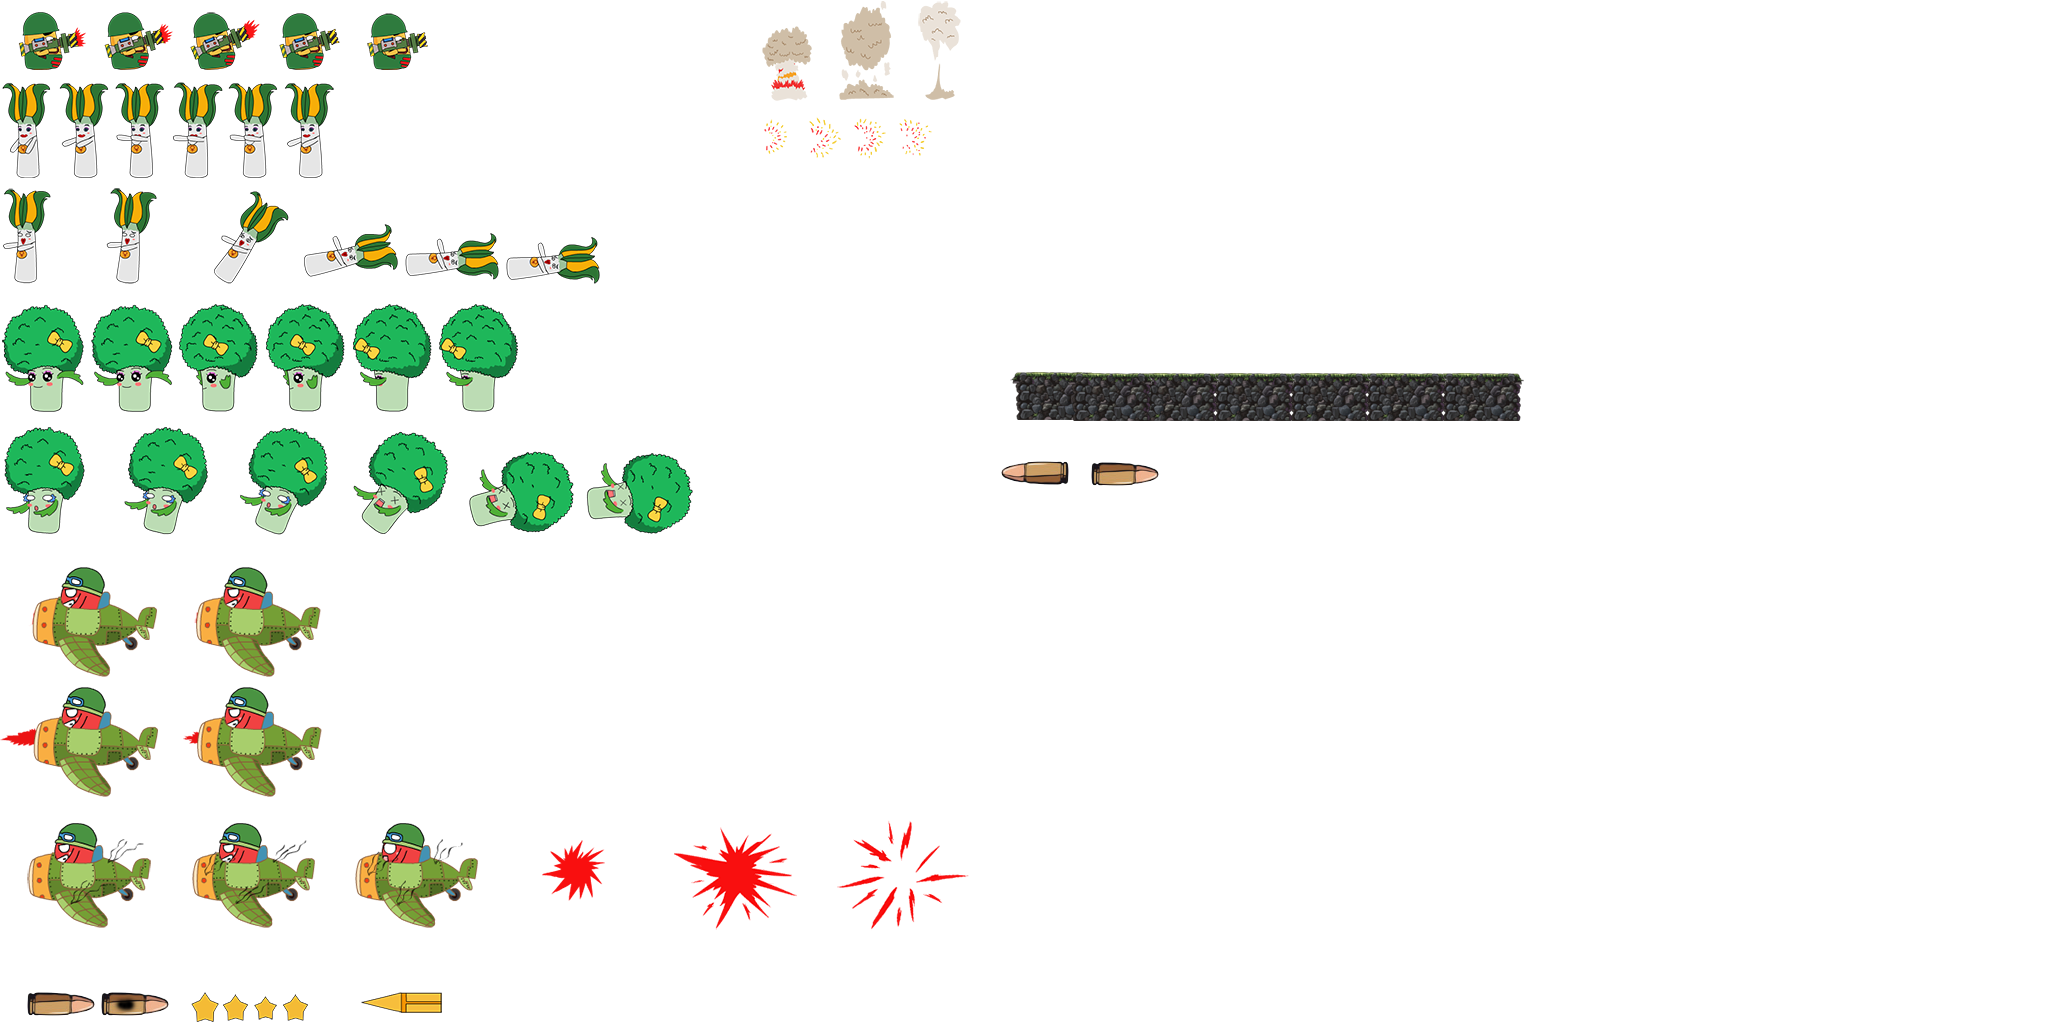
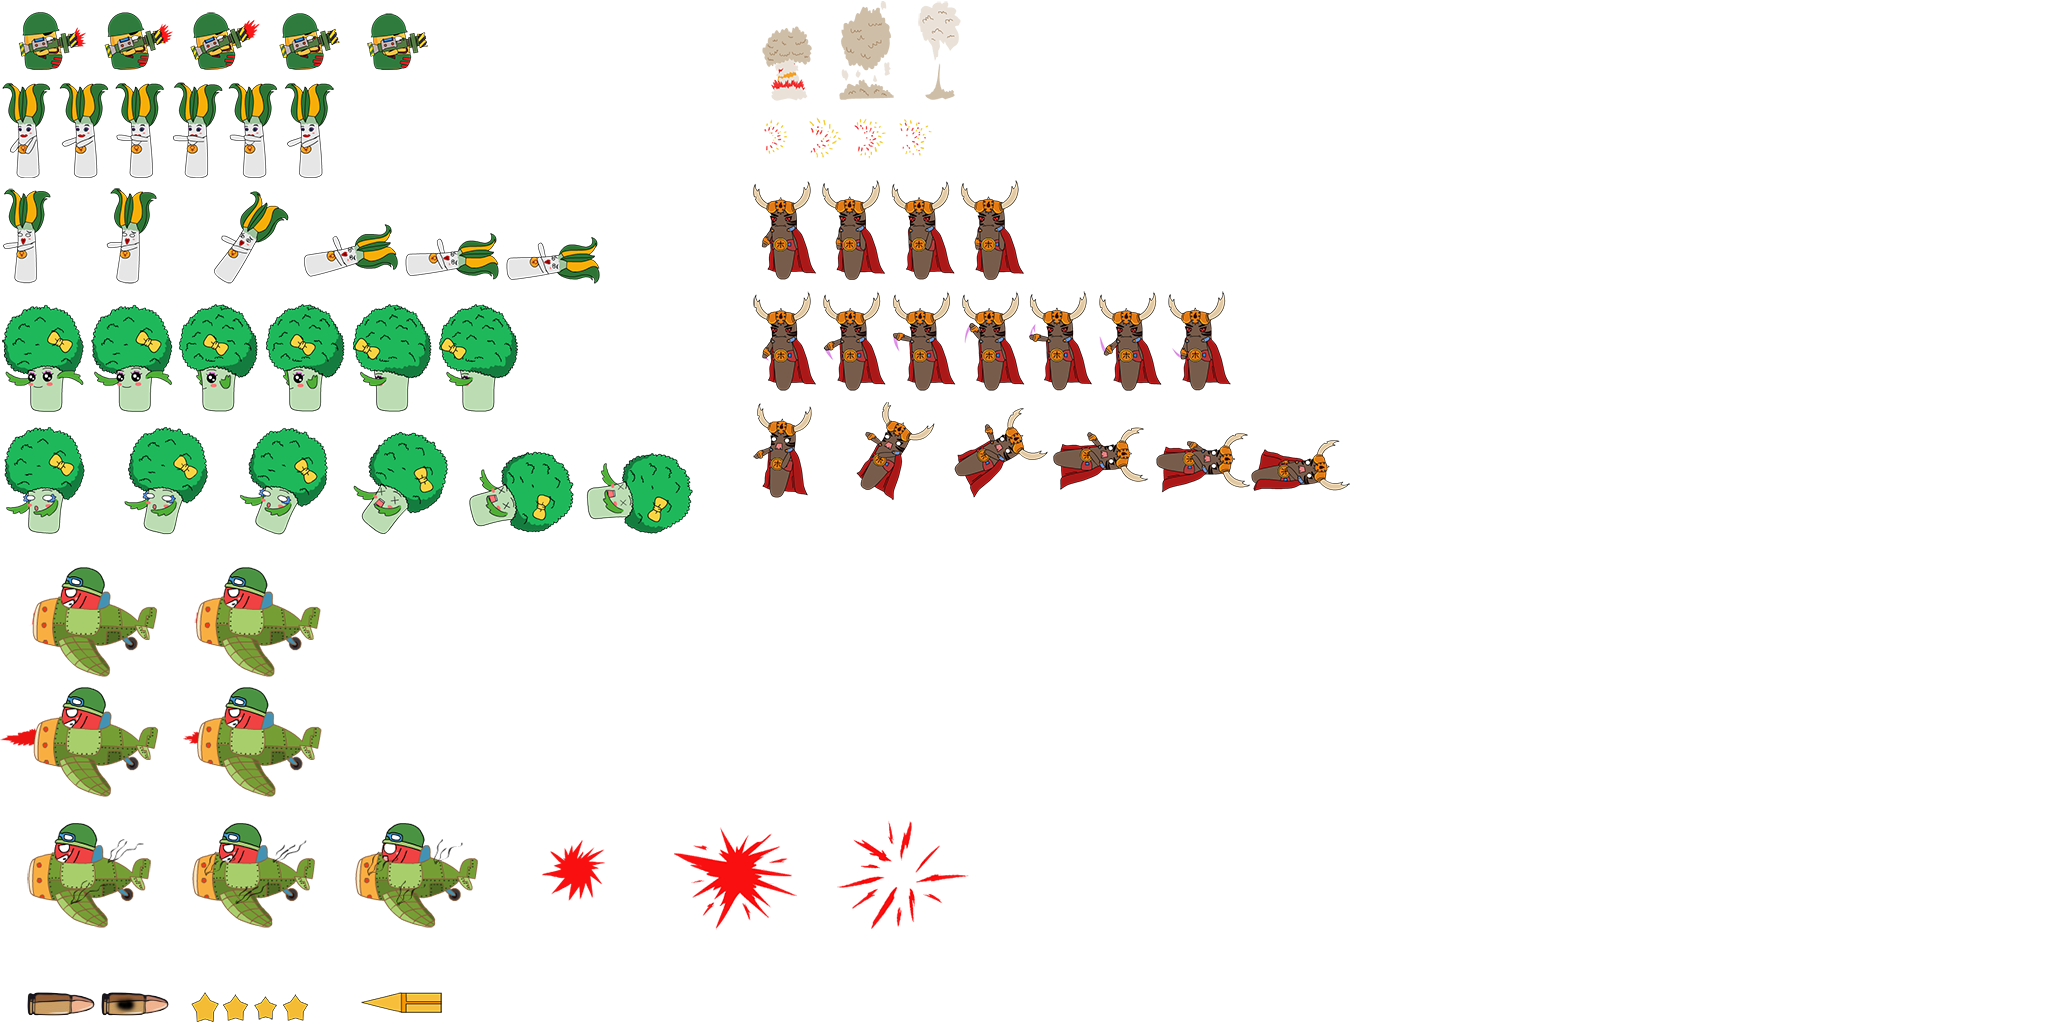
Added some classes

Changed region(s): [[0.375, 0.1875, 0.75, 0.5]]

diff --git a/core/src/com/xqs/mypaoku/actor/enemy/MushuEnemy.java b/core/src/com/xqs/mypaoku/actor/enemy/MushuEnemy.java
@@ -1,0 +1,62 @@
+package com.xqs.mypaoku.actor.enemy;
+
+import com.badlogic.gdx.graphics.g2d.Animation;
+import com.badlogic.gdx.graphics.g2d.TextureAtlas;
+import com.xqs.mypaoku.MyPaokuGame;
+import com.xqs.mypaoku.actor.Tower;
+import com.xqs.mypaoku.actor.base.BaseEnemy;
+import com.xqs.mypaoku.res.Res;
+import com.xqs.mypaoku.util.TextureUtil;
+
+/**
+ * Created by Administrator on 2017/3/27 0027.
+ */
+
+public class MushuEnemy extends BaseEnemy {
+    public final static String TAG="CaihuaEnemy";
+
+    public final static int StartY=150;
+
+
+    public MushuEnemy(MyPaokuGame mainGame) {
+        super(mainGame);
+        position.x=this.mainGame.getWorldWidth();
+        position.y=StartY;
+
+        setStopX(Tower.getStopX());
+
+        setPosition(position.x,position.y);
+
+        walk();
+    }
+
+    @Override
+    public Animation getWalkAnimation() {
+        TextureAtlas.AtlasRegion walkRegion=mainGame.getAtlas().findRegion(Res.Atlas.IMAGE_ENEMY_MUSHU_WALK);
+        Animation walkAnimation = new  Animation(0.1F, TextureUtil.getTextureRegions(walkRegion,1,4));
+        return walkAnimation;
+    }
+
+    @Override
+    public Animation getFireAnimation() {
+        TextureAtlas.AtlasRegion region=mainGame.getAtlas().findRegion(Res.Atlas.IMAGE_ENEMY_MUSHU_FIRE);
+        Animation animation = new  Animation(0.08F, TextureUtil.getTextureRegions(region,1,7));
+        return animation;
+    }
+
+    @Override
+    public Animation getHurtAnimation() {
+        TextureAtlas.AtlasRegion region=mainGame.getAtlas().findRegion(Res.Atlas.IMAGE_ENEMY_MUSHU_DEAD);
+        Animation animation = new  Animation(0.08F, TextureUtil.getTextureRegions(region,1,6));
+        return animation;
+    }
+
+    @Override
+    public void orderAct(float delta, int counter) {
+        if(counter%10==0) {
+            if(getX()>getStopX()) {
+                fire();
+            }
+        }
+    }
+}

diff --git a/core/src/com/xqs/mypaoku/stage/GameStage.java b/core/src/com/xqs/mypaoku/stage/GameStage.java
@@ -1,12 +1,8 @@
 package com.xqs.mypaoku.stage;
 
 import com.badlogic.gdx.Gdx;
-import com.badlogic.gdx.graphics.OrthographicCamera;
-import com.badlogic.gdx.graphics.glutils.ShapeRenderer;
 import com.badlogic.gdx.math.MathUtils;
-import com.badlogic.gdx.math.Vector2;
 import com.badlogic.gdx.physics.box2d.Body;
-import com.badlogic.gdx.physics.box2d.Box2DDebugRenderer;
 import com.badlogic.gdx.physics.box2d.World;
 import com.badlogic.gdx.utils.Array;
 import com.badlogic.gdx.utils.Scaling;
@@ -22,7 +18,6 @@ import com.xqs.mypaoku.actor.bullet.PlaneBullet;
 import com.xqs.mypaoku.actor.enemy.PlaneEnemy;
 import com.xqs.mypaoku.actor.Player;
 import com.xqs.mypaoku.actor.bullet.PlayerBullet;
-import com.xqs.mypaoku.actor.Road;
 import com.xqs.mypaoku.actor.Tower;
 import com.xqs.mypaoku.actor.base.BaseBullet;
 import com.xqs.mypaoku.actor.base.BaseEnemy;
@@ -30,7 +25,6 @@ import com.xqs.mypaoku.stage.base.BaseStage;
 import com.xqs.mypaoku.util.Box2DManager;
 import com.xqs.mypaoku.util.CollisionUtils;
 import com.xqs.mypaoku.util.GameState;
-import com.xqs.mypaoku.util.Util;
 
 import java.util.ArrayList;
 import java.util.HashMap;
@@ -56,9 +50,6 @@ public class GameStage extends BaseStage {
 
 	/** 塔 **/
 	private Tower tower;
-
-	/**路面**/
-	private Road roadActor;
 
 	/** 敌人容器 **/
 	private List<BaseEnemy> enemyList=new ArrayList<BaseEnemy>();
@@ -111,10 +102,6 @@ public class GameStage extends BaseStage {
 		 */
 		playerActor=new Player(this.getMainGame());
 		addActor(playerActor);
-
-
-		roadActor=new Road(this.getMainGame());
-		addActor(roadActor);
 
 		/** 子弹世界 **/
 		world = Box2DManager.createWorld();

diff --git a/core/src/com/xqs/mypaoku/res/Res.java b/core/src/com/xqs/mypaoku/res/Res.java
@@ -56,6 +56,12 @@ public class Res {
         public static final String IMAGE_ENEMY_CAIHUA_WALK="caihua_walk";
         public static final String IMAGE_ENEMY_CAIHUA_DEAD="caihua_dead";
 
+        /** 木薯 **/
+        public static final String IMAGE_ENEMY_MUSHU_WALK="mushu_walk";
+        public static final String IMAGE_ENEMY_MUSHU_FIRE="mushu_fire";
+        public static final String IMAGE_ENEMY_MUSHU_DEAD="mushu_dead";
+
+
         /** 飞机 **/
         public static final String IMAGE_ENEMY_PLANE_WALK="plane_walk";
         public static final String IMAGE_ENEMY_PLANE_FIRE="plane_fire";
